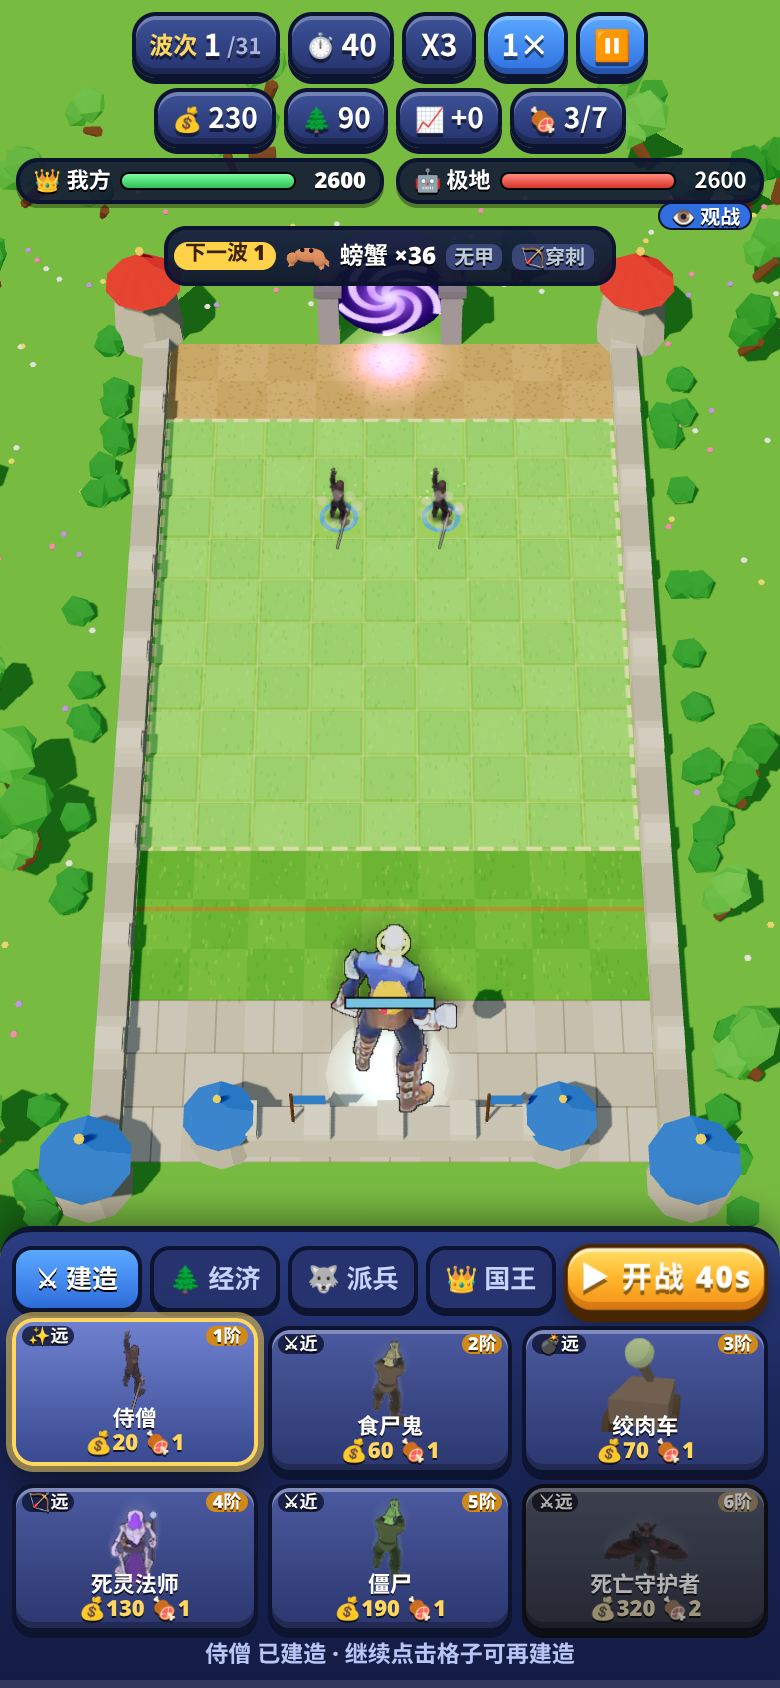
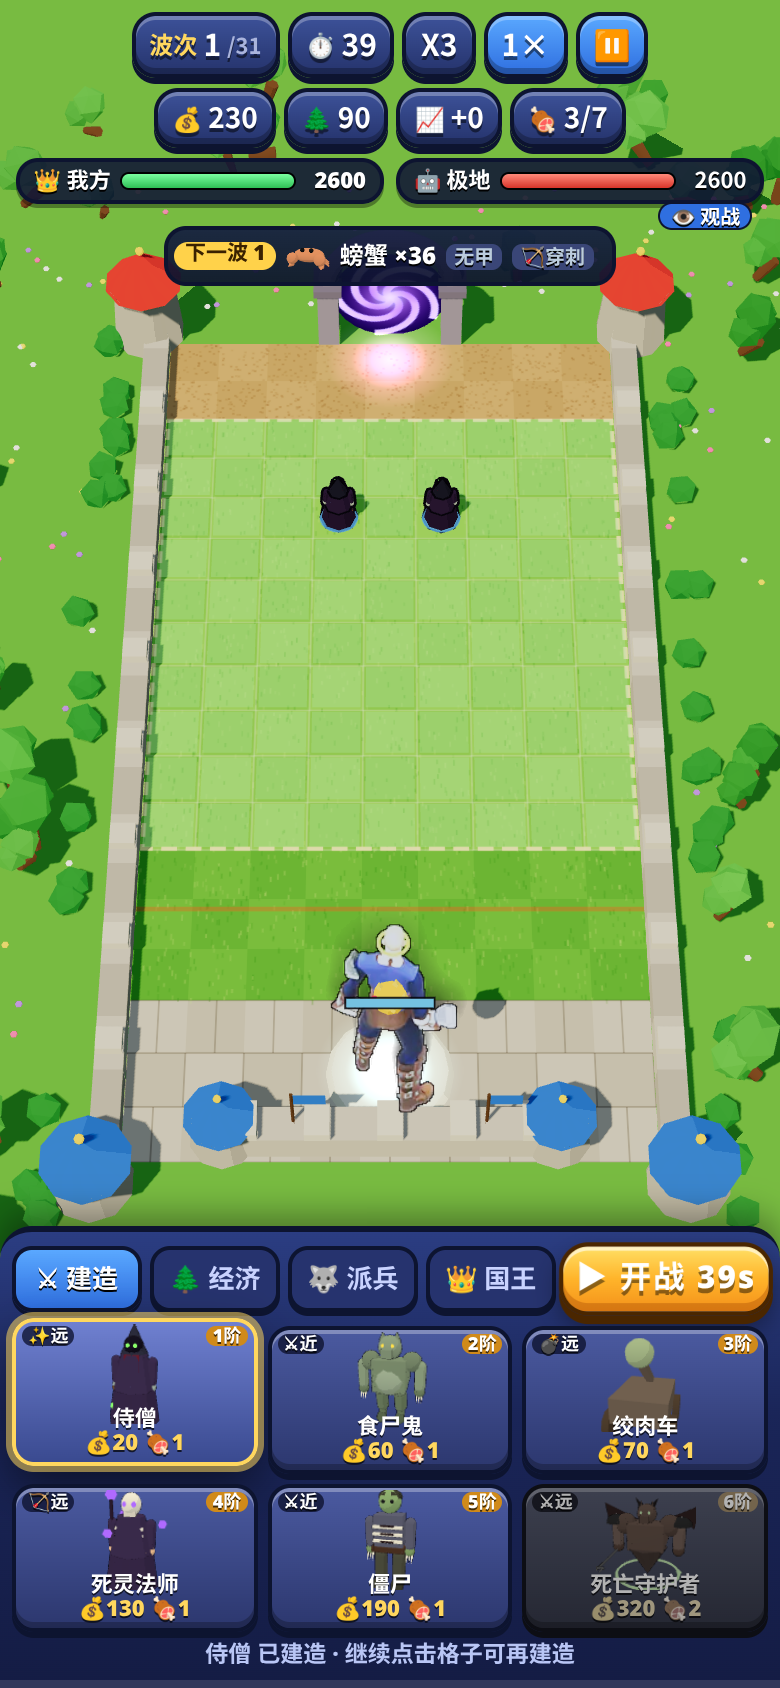
Model remake: Undead (acolyte, revenant, ghouls, necromancer, Kel'Thuzad + ghost, zombie, butcher, pit lord, frost wyrm; meat wagon/war machine keep matching procedural carts)

diff --git a/toonrecipes.js b/toonrecipes.js
@@ -161,3 +161,15 @@ R('h09T',{k:1.1,plan:'quad',skin:0xe8e4dc,skin2:0xc8c4bc,headType:'horse',eye:0x
 R('h09U',{k:1.25,plan:'quad',skin:0x3a3a40,skin2:0x5a5a64,headType:'horse',eye:0xffe04a,pawC:0x2a2a2a,legLen:0.38,bodyLen:0.7,mane:true,maneC:0xd8d8d8,tailLen:0.34,tailC:0xd8d8d8,saddle:0xc8302a,rider:0xffd04a,riderSkin:0xf0b890,riderHelm:0xffd04a,lance:0xffffff,spikes:true,spikeC:0xffd04a,atk:'bite',extras:['aura:0xfff0a0']});
 R('h0A3',{k:1.0,plan:'flyer',headType:'bird',skin:0x3a6ad8,skin2:0xf0e0a0,headC:0x4a7ae8,wing:'bat',wingC:0xf0c84a,beak:0xf0d060,eye:0xffffff,crest:0xffd04a,neckLen:0.8,tailLen:0.6,wingSpan:1.0,alt:0.45,rider:0x2a4aa8,riderSkin:0xf8d0a8,atk:'shoot',extras:['rings:0x9ad8ff']});
 R('h0A0',{k:1.12,plan:'flyer',headType:'bird',skin:0xc8a060,skin2:0xf8f0e0,headC:0xf8f8f0,wing:'bird',wingC:0xf0e8d8,beak:0xf0c040,eye:0x2a2a2a,neckLen:0.45,headS:1.3,tailLen:0.35,wingSpan:1.1,alt:0.42,rider:0x8a8a94,riderSkin:0xf0b890,atk:'dive',extras:['crest:0xffd04a','aura:0xfff0a0']});
+// ===================== 亡灵 Undead：侍僧、亡魂、食尸鬼、死灵法师、巫妖、僵尸、憎恶、深渊领主、冰霜巨龙（绞肉车/战争机器保留相符的程序化车模型） =====================
+R('h0CF',{k:0.92,h:0.98,torso:'robe',head:'hood',hoodC:0x2a2a3a,torsoC:0x3a2a4a,skin:0x9aa89a,eye:0x8aff6a,weapon:'wand',glow:0x8aff6a,atk:'cast',extras:['tabard:0x6a1a2a']});
+R('h0CH',{k:1.02,ghost:true,h:1.02,legs:'none',floatY:0.42,torso:'default',head:'skull',headC:0xc8e8f0,helm:'helm',metal:0x6a8aa8,torsoC:0x4a7a9a,lowC:0x3a6a8a,skin:0xa8d8e8,eye:0x8affff,weapon:'trident',wMetal:0xa8e0f0,glow:0x8affff,atk:'cast',extras:['chains','wisps:0x8affff']});
+R('h0CI',{k:0.95,h:0.9,bw:1.15,torso:'brute',head:'beast',headC:0x8a9a7a,skin:0x8a9a7a,torsoC:0x7a8a6a,legC:0x6a7a5a,sleeve:0x8a9a7a,handC:0x6a7a5a,legs:'digit',arms:'claw',eye:0xffe04a,atk:'claw',extras:['bones','belly:0x9aa88a']});
+R('h0CK',{k:1.1,h:0.95,bw:1.2,torso:'brute',head:'beast',headC:0x9a6a5a,skin:0x9a6a5a,torsoC:0x8a5a4a,legC:0x6a4a3a,sleeve:0x9a6a5a,handC:0x7a4a3a,legs:'digit',arms:'claw',eye:0xff3a2a,atk:'claw',extras:['bones','spikes:0xe8e0c8','aura:0xff4a2a']});
+R('h0CQ',{k:1.02,h:1.02,torso:'robe',head:'skull',headC:0xe8e0c8,helm:'hood',hoodC:0x2a1a3a,torsoC:0x3a2a4a,eye:0xb06aff,weapon:'staff',wood:0x2a1a2a,glow:0xb06aff,atk:'cast',extras:['bones','orbit:0xb06aff']});
+R('h0CS',{k:1.15,h:1.12,legs:'none',floatY:0.5,torso:'robe',head:'skull',headC:0xd8e8f0,helm:'crown',accent:0x6ad8ff,torsoC:0x2a3a6a,lowC:0x1a2a5a,eye:0x6affff,arms:'claw',weapon:'glowfist',off:'glowfist',glow:0x9af0ff,pads:true,padC:0xd8e0e8,spikes:true,atk:'cast',extras:['cape:0x1a2a5a','orbit:0x9af0ff','aura:0x6ad8ff']});
+R('h0CV',{k:1.15,ghost:true,h:1.12,legs:'none',floatY:0.52,torso:'robe',head:'skull',headC:0xd8f8ff,helm:'crown',accent:0x9affff,torsoC:0x6ab8d8,lowC:0x4a98c8,eye:0xffffff,arms:'claw',weapon:'glowfist',off:'glowfist',glow:0xc8ffff,atk:'cast',extras:['wisps:0xc8ffff','orbit:0xc8ffff']});
+R('h0CW',{k:0.98,h:1.0,torso:'default',head:'default',skin:0x8aa86a,hair:0x3a3a2a,torsoC:0x5a5a6a,legC:0x4a4a3a,bootC:0x3a3a2a,eye:0xffe04a,arms:'claw',armsIdle:-1.3,atk:'claw',extras:['stitches','bones']});
+R('h0CY',{k:1.12,h:1.15,bw:1.6,torso:'brute',head:'default',headS:0.85,skin:0xb8c8a8,torsoC:0xb8c8a8,legC:0x8a9a7a,sleeve:0xb8c8a8,handC:0x9aa88a,bootC:0x5a5a4a,eye:0xffe04a,weapon:'axe',wMetal:0x9a9aa0,off:'chain',atk:'swing',extras:['stitches','belly:0xc8d8b8','chains','spikes:0x6a6a6a']});
+R('h0D0',{k:1.12,h:1.18,bw:1.5,legs:'none',floatY:0.38,torso:'brute',head:'beast',headC:0x8a4a2a,helm:'horns',hornC:0x2a1a1a,skin:0x9a5a3a,torsoC:0x8a4a2a,lowC:0x6a3a2a,lowM:'n',sleeve:0x9a5a3a,handC:0x7a3a1a,eye:0x8aff4a,weapon:'trident',wMetal:0x5a5a5a,glow:0x8aff4a,pads:true,padC:0x2a2a2a,spikes:true,atk:'thrust',extras:['bwings:0x4a1a1a','tail:0x6a3a2a','aura:0x8aff4a']});
+R('h0D2',{k:1.12,plan:'flyer',skin:0xc8e0f0,skin2:0x8ab8d8,wingC:0x9ac8e8,wingM:'w',eye:0x6affff,crest:0xe8f8ff,neckLen:0.8,tailLen:0.6,wingSpan:1.15,alt:0.4,atk:'bite',extras:['spikes:0xe8f8ff','rings:0x9af0ff'],trail:0x9af0ff});

diff --git a/index.html b/index.html
@@ -10,9 +10,9 @@
 <link rel="manifest" href="manifest.webmanifest">
 <link rel="icon" type="image/png" href="icons/favicon-32.png">
 <link rel="apple-touch-icon" href="icons/apple-touch-icon.png">
-<link rel="stylesheet" href="style.css?v=14">
-<link rel="stylesheet" href="td.css?v=14">
-<link rel="stylesheet" href="lt.css?v=14">
+<link rel="stylesheet" href="style.css?v=15">
+<link rel="stylesheet" href="td.css?v=15">
+<link rel="stylesheet" href="lt.css?v=15">
 </head>
 <body class="td lt">
 <canvas id="cv"></canvas>
@@ -75,8 +75,8 @@
 </div>
 <div id="showTitle" class="hidden"></div>
 <script src="audio.js?v=1"></script>
-<script src="lt_core.js?v=14"></script>
+<script src="lt_core.js?v=15"></script>
 <script type="importmap">{"imports":{"three":"./lib/three.module.min.js","three/addons/":"./lib/addons/"}}</script>
-<script type="module" src="lt.js?v=14"></script>
+<script type="module" src="lt.js?v=15"></script>
 </body>
 </html>

diff --git a/lt.js b/lt.js
@@ -3,8 +3,8 @@ import * as THREE from 'three';
 import {SPR_UNITS,SPR_K,SPR_V} from './sprdata.js';
 import {MODELS,modelOf} from './models.js';
 import {ABZ as ABZ_} from './abil_zh.js';
-import {initTK,buildTK,animTK} from './toonkit.js?v=14';
-import {TKR} from './toonrecipes.js?v=14';
+import {initTK,buildTK,animTK} from './toonkit.js?v=15';
+import {TKR} from './toonrecipes.js?v=15';
 const LT=window.LT,S=SFX.S,$=id=>document.getElementById(id);
 const Q=location.search;const DEBUG=/[?&]debug/.test(Q);const SHOWCASE=(Q.match(/[?&]showcase=([^&]+)/)||[])[1];
 const W=LT.W,H=LT.H,W2=W/2,H2=H/2;const B=LT.BUILD;

diff --git a/data/model_audit.md b/data/model_audit.md
@@ -36,7 +36,7 @@
 | Goblin 地精 | 13 | 1.15 | 0 | 3 |
 | Paladin 圣骑士 | 12 | 1.25 | 0 | 12 |
 | Orc 兽人 | 13 | 1.54 | 2 | 13 |
-| Undead 亡灵 | 13 | 1.31 | 1 | 0 |
+| Undead 亡灵 | 13 | 1.31 | 1 | 11 |
 
 ## Mech 机械
 
@@ -240,19 +240,19 @@
 
 | id | 兵种 | WC3 模型 | 旧资源 | 旧资源符合度 | 处理 |
 |---|---|---|---|---|---|
-| h0CF | Acolyte 侍僧 | Acolyte | 精灵 monk | ✅ 基本相符 | 保留，后续统一换 ToonKit 时顺带做 |
-| h0CH | Revenant 亡魂 | RevenantOfTheWaves | 精灵 wight | ⚠ 部分不符 | ToonKit 程序化重做（按 WC3 轮廓/配色） |
-| h0CI | Ghoul 食尸鬼 | Ghoul | 精灵 walkingDead | ✅ 基本相符 | 保留，后续统一换 ToonKit 时顺带做 |
-| h0CK | Frenzy Ghoul 狂暴食尸鬼 | Ghoul | 精灵 walkingDead | ✅ 基本相符 | 保留，后续统一换 ToonKit 时顺带做 |
+| h0CF | Acolyte 侍僧 | Acolyte | 精灵 monk | ✅ 基本相符 | **已重做**：ToonKit 程序化卡通模型（humanoid） |
+| h0CH | Revenant 亡魂 | RevenantOfTheWaves | 精灵 wight | ⚠ 部分不符 | **已重做**：ToonKit 程序化卡通模型（humanoid） |
+| h0CI | Ghoul 食尸鬼 | Ghoul | 精灵 walkingDead | ✅ 基本相符 | **已重做**：ToonKit 程序化卡通模型（humanoid） |
+| h0CK | Frenzy Ghoul 狂暴食尸鬼 | Ghoul | 精灵 walkingDead | ✅ 基本相符 | **已重做**：ToonKit 程序化卡通模型（humanoid） |
 | h0CO | Meat Wagon 绞肉车 | MeatWagon | 程序化 wagon | ✅ 基本相符 | 保留，后续统一换 ToonKit 时顺带做 |
 | h0CP | War Machine 战争机器 | InfernalCannonCannon | 程序化 wagon | ✅ 基本相符 | 保留，后续统一换 ToonKit 时顺带做 |
-| h0CQ | Necromancer 死灵法师 | Necromancer | 精灵 lich | ✅ 基本相符 | 保留，后续统一换 ToonKit 时顺带做 |
-| h0CS | Necrolyte 克尔苏加德 | Kelthuzad | 精灵 lich | ✅ 基本相符 | 保留，后续统一换 ToonKit 时顺带做 |
-| h0CV | Ghost 幽灵巫妖 | KelThuzadGhost | 精灵 lich | ⚠ 部分不符 | ToonKit 程序化重做（按 WC3 轮廓/配色） |
-| h0CW | Zombie 僵尸 | Zombie | 精灵 walkingDead | ✅ 基本相符 | 保留，后续统一换 ToonKit 时顺带做 |
-| h0CY | The Butcher 屠夫 | AbominationCIN | 精灵 gog | ❌ 严重不符 | ToonKit 程序化重做（按 WC3 轮廓/配色） |
-| h0D0 | Guardian of Death 死亡守护者 | PitLord | 精灵 pitFiend | ✅ 基本相符 | 保留，后续统一换 ToonKit 时顺带做 |
-| h0D2 | Death Dragon 骨龙 | FrostWyrm | 精灵 boneDragon | ✅ 基本相符 | 保留，后续统一换 ToonKit 时顺带做 |
+| h0CQ | Necromancer 死灵法师 | Necromancer | 精灵 lich | ✅ 基本相符 | **已重做**：ToonKit 程序化卡通模型（humanoid） |
+| h0CS | Necrolyte 克尔苏加德 | Kelthuzad | 精灵 lich | ✅ 基本相符 | **已重做**：ToonKit 程序化卡通模型（humanoid） |
+| h0CV | Ghost 幽灵巫妖 | KelThuzadGhost | 精灵 lich | ⚠ 部分不符 | **已重做**：ToonKit 程序化卡通模型（humanoid） |
+| h0CW | Zombie 僵尸 | Zombie | 精灵 walkingDead | ✅ 基本相符 | **已重做**：ToonKit 程序化卡通模型（humanoid） |
+| h0CY | The Butcher 屠夫 | AbominationCIN | 精灵 gog | ❌ 严重不符 | **已重做**：ToonKit 程序化卡通模型（humanoid） |
+| h0D0 | Guardian of Death 死亡守护者 | PitLord | 精灵 pitFiend | ✅ 基本相符 | **已重做**：ToonKit 程序化卡通模型（humanoid） |
+| h0D2 | Death Dragon 骨龙 | FrostWyrm | 精灵 boneDragon | ✅ 基本相符 | **已重做**：ToonKit 程序化卡通模型（flyer） |
 
 ## Paladin 圣骑士
 
